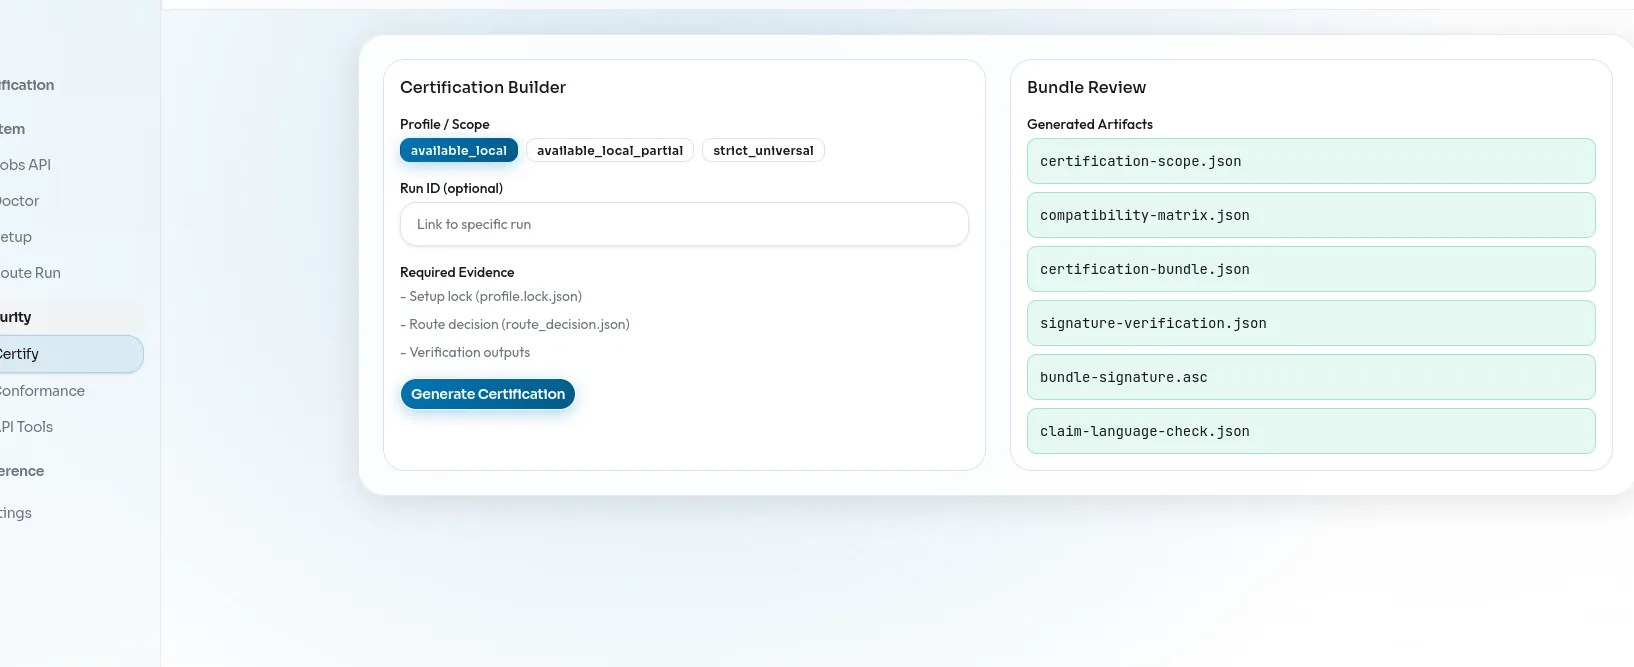
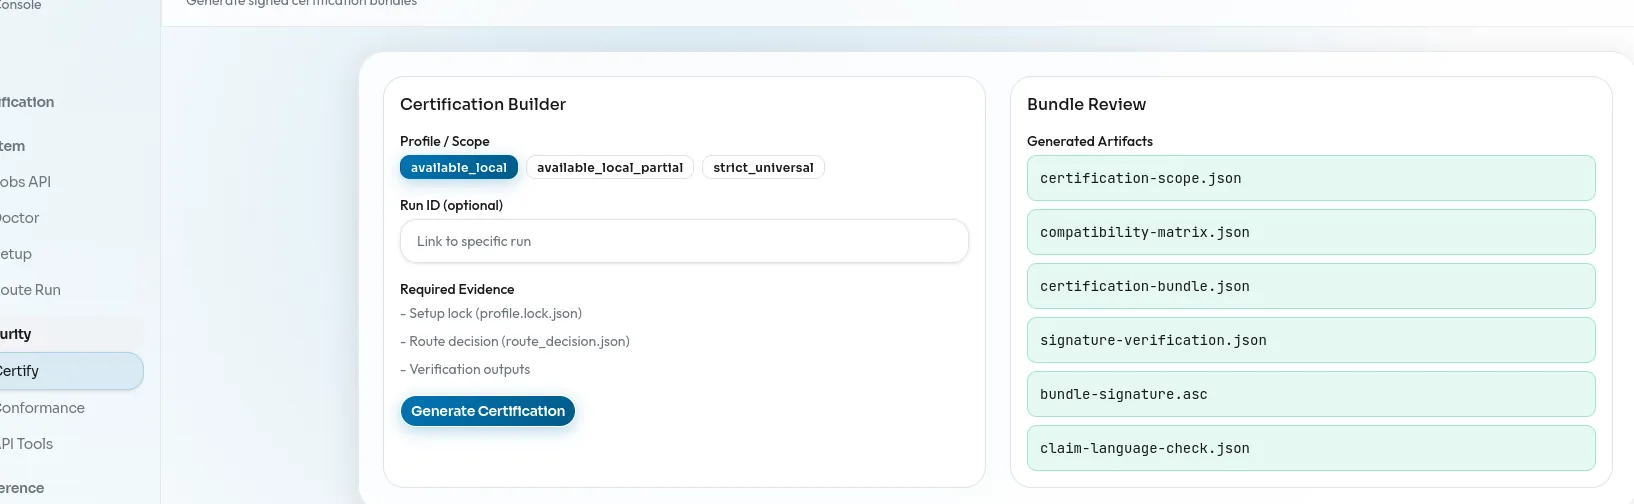
Update

diff --git a/glyphser.html b/glyphser.html
@@ -12,7 +12,7 @@
   <meta property="og:url" content="https://astrocytech.github.io/glyphser.html">
   <meta property="og:title" content="Glyphser - Deterministic ML Execution">
   <meta property="og:description" content="Glyphser is Astrocytech's deterministic runtime specification and conformance toolkit for verifiable machine learning execution.">
-  <meta property="og:image" content="https://astrocytech.github.io/files/glyphser/glyphser-dashboard-hero-light.webp">
+  <meta property="og:image" content="https://astrocytech.github.io/files/glyphser/glyphser-dashboard-hero-light-v2.webp">
   
   <!-- Twitter Card -->
   <meta name="twitter:card" content="summary_large_image">
@@ -162,13 +162,15 @@
       </div>
       <div class="hero-visual">
         <figure class="product-shot">
-          <img
-            src="files/glyphser/glyphser-dashboard-hero-light.webp"
-            alt="Glyphser dashboard showing verification KPIs and recent runs"
-            loading="eager"
-            decoding="async"
-            fetchpriority="high"
-          />
+          <button type="button" class="product-shot-trigger" data-fullsrc="files/glyphser/glyphser-dashboard-full-light.webp" aria-label="Open Glyphser dashboard screenshot full size">
+            <img
+              src="files/glyphser/glyphser-dashboard-hero-light-v2.webp"
+              alt="Glyphser dashboard showing verification KPIs and recent runs"
+              loading="eager"
+              decoding="async"
+              fetchpriority="high"
+            />
+          </button>
         </figure>
       </div>
     </div>
@@ -275,21 +277,25 @@
 
       <div class="evidence-grid" aria-label="Product evidence">
         <figure class="product-shot">
-          <img
-            src="files/glyphser/glyphser-runs-light.webp"
-            alt="Glyphser runs list showing verification status, timestamps, and run identifiers"
-            loading="lazy"
-            decoding="async"
-          />
+          <button type="button" class="product-shot-trigger" data-fullsrc="files/glyphser/glyphser-runs-full-light.webp" aria-label="Open Glyphser runs screenshot full size">
+            <img
+              src="files/glyphser/glyphser-runs-light-v2.webp"
+              alt="Glyphser runs list showing verification status, timestamps, and run identifiers"
+              loading="lazy"
+              decoding="async"
+            />
+          </button>
           <figcaption>Runs</figcaption>
         </figure>
         <figure class="product-shot">
-          <img
-            src="files/glyphser/glyphser-run-detail-light.webp"
-            alt="Glyphser run detail view showing artifacts, pass/fail status, and audit-ready evidence"
-            loading="lazy"
-            decoding="async"
-          />
+          <button type="button" class="product-shot-trigger" data-fullsrc="files/glyphser/glyphser-run-detail-full-light.webp" aria-label="Open Glyphser evidence screenshot full size">
+            <img
+              src="files/glyphser/glyphser-run-detail-light-v2.webp"
+              alt="Glyphser run detail view showing artifacts, pass/fail status, and audit-ready evidence"
+              loading="lazy"
+              decoding="async"
+            />
+          </button>
           <figcaption>Evidence</figcaption>
         </figure>
       </div>
@@ -421,12 +427,14 @@
           <p>Bundle artifacts, attestations, and pass/fail gates into a shareable certificate for audits and regulated workflows.</p>
         </div>
         <figure class="product-shot">
-          <img
-            src="files/glyphser/glyphser-certification-light.webp"
-            alt="Glyphser Certification Builder showing evidence bundles and certificate configuration"
-            loading="lazy"
-            decoding="async"
-          />
+          <button type="button" class="product-shot-trigger" data-fullsrc="files/glyphser/glyphser-certification-full-light.webp" aria-label="Open Glyphser certification screenshot full size">
+            <img
+              src="files/glyphser/glyphser-certification-light-v2.webp"
+              alt="Glyphser Certification Builder showing evidence bundles and certificate configuration"
+              loading="lazy"
+              decoding="async"
+            />
+          </button>
           <figcaption>Certification Builder</figcaption>
         </figure>
       </div>
@@ -646,6 +654,14 @@ npm run dev
     </div>
   </footer>
 
+  <div id="image-modal" class="image-modal" hidden>
+    <div class="image-modal__backdrop" data-close></div>
+    <div class="image-modal__content" role="dialog" aria-modal="true" aria-label="Image preview">
+      <button type="button" class="image-modal__close" aria-label="Close image preview">&times;</button>
+      <img class="image-modal__img" alt="">
+    </div>
+  </div>
+
   <script>
     // Smooth scroll
     document.querySelectorAll('a[href^="#"]').forEach(anchor => {
@@ -704,6 +720,51 @@ npm run dev
         }
       });
     });
+
+    // Image modal (full-size preview)
+    (() => {
+      const modal = document.getElementById('image-modal');
+      if (!modal) return;
+      const modalImg = modal.querySelector('.image-modal__img');
+      const closeBtn = modal.querySelector('.image-modal__close');
+      const backdrop = modal.querySelector('.image-modal__backdrop');
+      let lastFocused = null;
+
+      const openModal = (src, alt) => {
+        lastFocused = document.activeElement;
+        modalImg.src = src;
+        modalImg.alt = alt || 'Image preview';
+        modal.hidden = false;
+        document.body.classList.add('modal-open');
+        closeBtn.focus();
+      };
+
+      const closeModal = () => {
+        modal.hidden = true;
+        modalImg.src = '';
+        modalImg.alt = '';
+        document.body.classList.remove('modal-open');
+        if (lastFocused && typeof lastFocused.focus === 'function') {
+          lastFocused.focus();
+        }
+      };
+
+      document.querySelectorAll('.product-shot-trigger').forEach(btn => {
+        btn.addEventListener('click', () => {
+          const img = btn.querySelector('img');
+          if (!img) return;
+          const fullSrc = btn.dataset.fullsrc || img.currentSrc || img.src;
+          openModal(fullSrc, img.alt);
+        });
+      });
+
+      closeBtn.addEventListener('click', closeModal);
+      backdrop.addEventListener('click', closeModal);
+
+      document.addEventListener('keydown', (e) => {
+        if (!modal.hidden && e.key === 'Escape') closeModal();
+      });
+    })();
   </script>
   <noscript>
     <style>

diff --git a/index.html b/index.html
@@ -277,12 +277,14 @@
           <span class="code-title">glyphser-dashboard</span>
         </div>
         <figure class="product-shot product-shot--flush">
-          <img
-            src="files/glyphser/glyphser-dashboard-light.webp"
-            alt="Glyphser dashboard showing verification KPIs and recent runs"
-            loading="lazy"
-            decoding="async"
-          />
+          <button type="button" class="product-shot-trigger" data-fullsrc="files/glyphser/glyphser-dashboard-full-light.webp" aria-label="Open Glyphser dashboard screenshot full size">
+            <img
+              src="files/glyphser/glyphser-dashboard-light-v2.webp"
+              alt="Glyphser dashboard showing verification KPIs and recent runs"
+              loading="lazy"
+              decoding="async"
+            />
+          </button>
         </figure>
         <div class="glyphser-actions">
           <a href="glyphser.html" class="btn btn-primary">View Docs</a>
@@ -476,6 +478,14 @@
     </div>
   </footer>
 
+  <div id="image-modal" class="image-modal" hidden>
+    <div class="image-modal__backdrop" data-close></div>
+    <div class="image-modal__content" role="dialog" aria-modal="true" aria-label="Image preview">
+      <button type="button" class="image-modal__close" aria-label="Close image preview">&times;</button>
+      <img class="image-modal__img" alt="">
+    </div>
+  </div>
+
   <script>
     // Smooth scroll
     document.querySelectorAll('a[href^="#"]').forEach(anchor => {
@@ -535,6 +545,51 @@
         }
       });
     });
+
+    // Image modal (full-size preview)
+    (() => {
+      const modal = document.getElementById('image-modal');
+      if (!modal) return;
+      const modalImg = modal.querySelector('.image-modal__img');
+      const closeBtn = modal.querySelector('.image-modal__close');
+      const backdrop = modal.querySelector('.image-modal__backdrop');
+      let lastFocused = null;
+
+      const openModal = (src, alt) => {
+        lastFocused = document.activeElement;
+        modalImg.src = src;
+        modalImg.alt = alt || 'Image preview';
+        modal.hidden = false;
+        document.body.classList.add('modal-open');
+        closeBtn.focus();
+      };
+
+      const closeModal = () => {
+        modal.hidden = true;
+        modalImg.src = '';
+        modalImg.alt = '';
+        document.body.classList.remove('modal-open');
+        if (lastFocused && typeof lastFocused.focus === 'function') {
+          lastFocused.focus();
+        }
+      };
+
+      document.querySelectorAll('.product-shot-trigger').forEach(btn => {
+        btn.addEventListener('click', () => {
+          const img = btn.querySelector('img');
+          if (!img) return;
+          const fullSrc = btn.dataset.fullsrc || img.currentSrc || img.src;
+          openModal(fullSrc, img.alt);
+        });
+      });
+
+      closeBtn.addEventListener('click', closeModal);
+      backdrop.addEventListener('click', closeModal);
+
+      document.addEventListener('keydown', (e) => {
+        if (!modal.hidden && e.key === 'Escape') closeModal();
+      });
+    })();
   </script>
   <noscript>
     <style>

diff --git a/sw.js b/sw.js
@@ -1,4 +1,4 @@
-const CACHE_NAME = 'astrocytech-v3';
+const CACHE_NAME = 'astrocytech-v14';
 const urlsToCache = [
   '/',
   '/index.html',
@@ -6,11 +6,17 @@ const urlsToCache = [
   '/404.html',
   '/files/astrocytech.css',
   '/files/home-hero@2x.webp',
-  '/files/glyphser/glyphser-dashboard-light.webp',
-  '/files/glyphser/glyphser-dashboard-hero-light.webp',
-  '/files/glyphser/glyphser-runs-light.webp',
-  '/files/glyphser/glyphser-run-detail-light.webp',
-  '/files/glyphser/glyphser-certification-light.webp',
+  '/files/glyphser/glyphser-dashboard-light-v2.webp',
+  '/files/glyphser/glyphser-dashboard-hero-light-v2.webp',
+  '/files/glyphser/glyphser-runs-light-v2.webp',
+  '/files/glyphser/glyphser-run-detail-light-v2.webp',
+  '/files/glyphser/glyphser-certification-light-v2.webp',
+  '/files/glyphser/glyphser-dashboard-full-light.webp',
+  '/files/glyphser/glyphser-runs-full-light.webp',
+  '/files/glyphser/glyphser-run-detail-full-light.webp',
+  '/files/glyphser/glyphser-certification-full-light.webp',
+  '/files/glyphser/glyphser-docs-full-light.webp',
+  '/files/glyphser/glyphser-module-explorer-full-light.webp',
   '/files/favicon_io/favicon-32x32.png',
   '/files/favicon_io/favicon-16x16.png',
   '/files/favicon_io/apple-touch-icon.png',
@@ -45,6 +51,20 @@ self.addEventListener('activate', event => {
 });
 
 self.addEventListener('fetch', event => {
+  // Network-first for HTML navigations so content updates without cache-busting.
+  if (event.request.mode === 'navigate') {
+    event.respondWith(
+      fetch(event.request)
+        .then(response => {
+          const responseToCache = response.clone();
+          caches.open(CACHE_NAME).then(cache => cache.put(event.request, responseToCache));
+          return response;
+        })
+        .catch(() => caches.match(event.request).then(r => r || caches.match('/404.html')))
+    );
+    return;
+  }
+
   event.respondWith(
     caches.match(event.request)
       .then(response => {

diff --git a/files/astrocytech.css b/files/astrocytech.css
@@ -603,6 +603,84 @@ a:hover {
   height: auto;
 }
 
+.product-shot-trigger {
+  width: 100%;
+  display: block;
+  padding: 0;
+  border: 0;
+  background: transparent;
+  cursor: zoom-in;
+}
+
+.product-shot-trigger:focus-visible {
+  outline: 2px solid var(--accent-primary);
+  outline-offset: 2px;
+  border-radius: 14px;
+}
+
+.image-modal[hidden] {
+  display: none;
+}
+
+.image-modal {
+  position: fixed;
+  inset: 0;
+  z-index: 20000;
+  display: grid;
+  place-items: center;
+}
+
+.image-modal__backdrop {
+  position: absolute;
+  inset: 0;
+  background: rgba(2, 6, 23, 0.72);
+}
+
+.image-modal__content {
+  position: relative;
+  display: inline-block;
+  width: fit-content;
+  max-width: 96vw;
+  max-height: 92vh;
+  padding: 0;
+}
+
+.image-modal__img {
+  display: block;
+  max-width: 96vw;
+  max-height: 88vh;
+  width: auto;
+  height: auto;
+  object-fit: contain;
+  border-radius: 18px;
+  border: 1px solid rgba(255, 255, 255, 0.18);
+  background: white;
+  box-shadow: 0 28px 90px rgba(0, 0, 0, 0.45);
+}
+
+.image-modal__close {
+  position: absolute;
+  top: 0.75rem;
+  right: 0.75rem;
+  width: 44px;
+  height: 44px;
+  border-radius: 999px;
+  border: 1px solid rgba(255, 255, 255, 0.22);
+  background: rgba(2, 6, 23, 0.55);
+  color: white;
+  font-size: 1.5rem;
+  line-height: 1;
+  cursor: pointer;
+}
+
+.image-modal__close:hover {
+  background: rgba(2, 6, 23, 0.7);
+}
+
+body.modal-open {
+  overflow: hidden;
+}
+
 .product-shot figcaption {
   padding: 0.75rem 1rem;
   background: rgba(255, 255, 255, 0.92);
